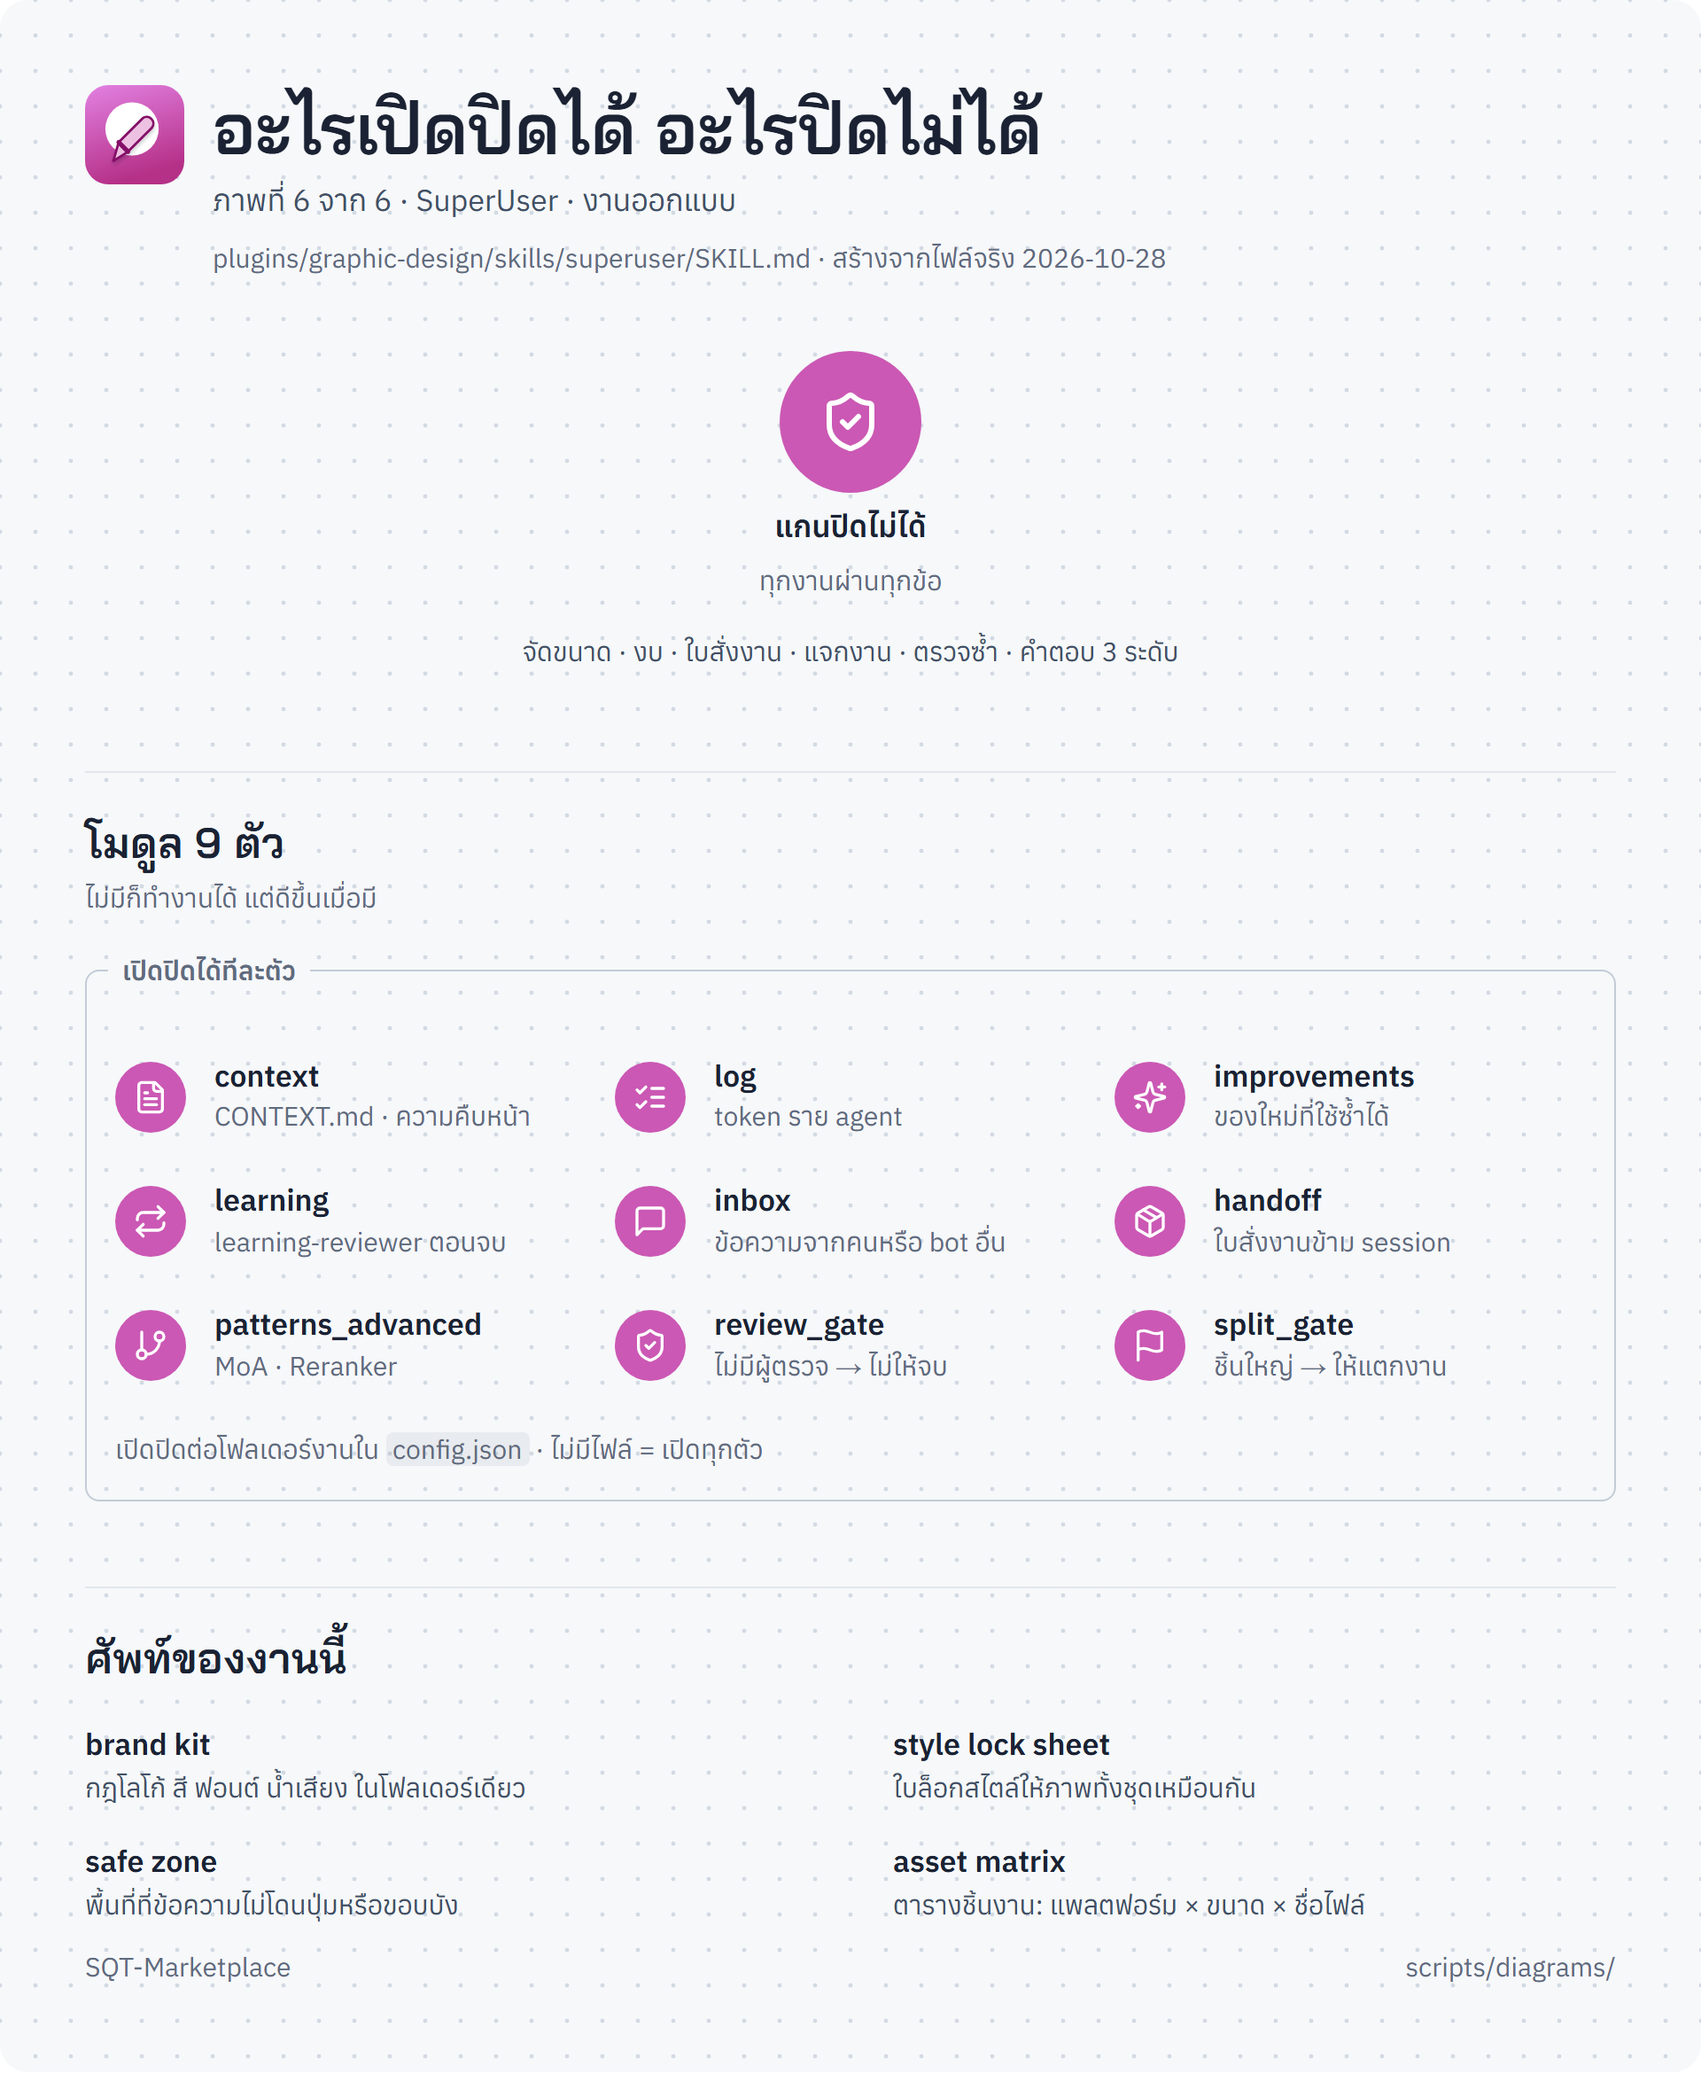
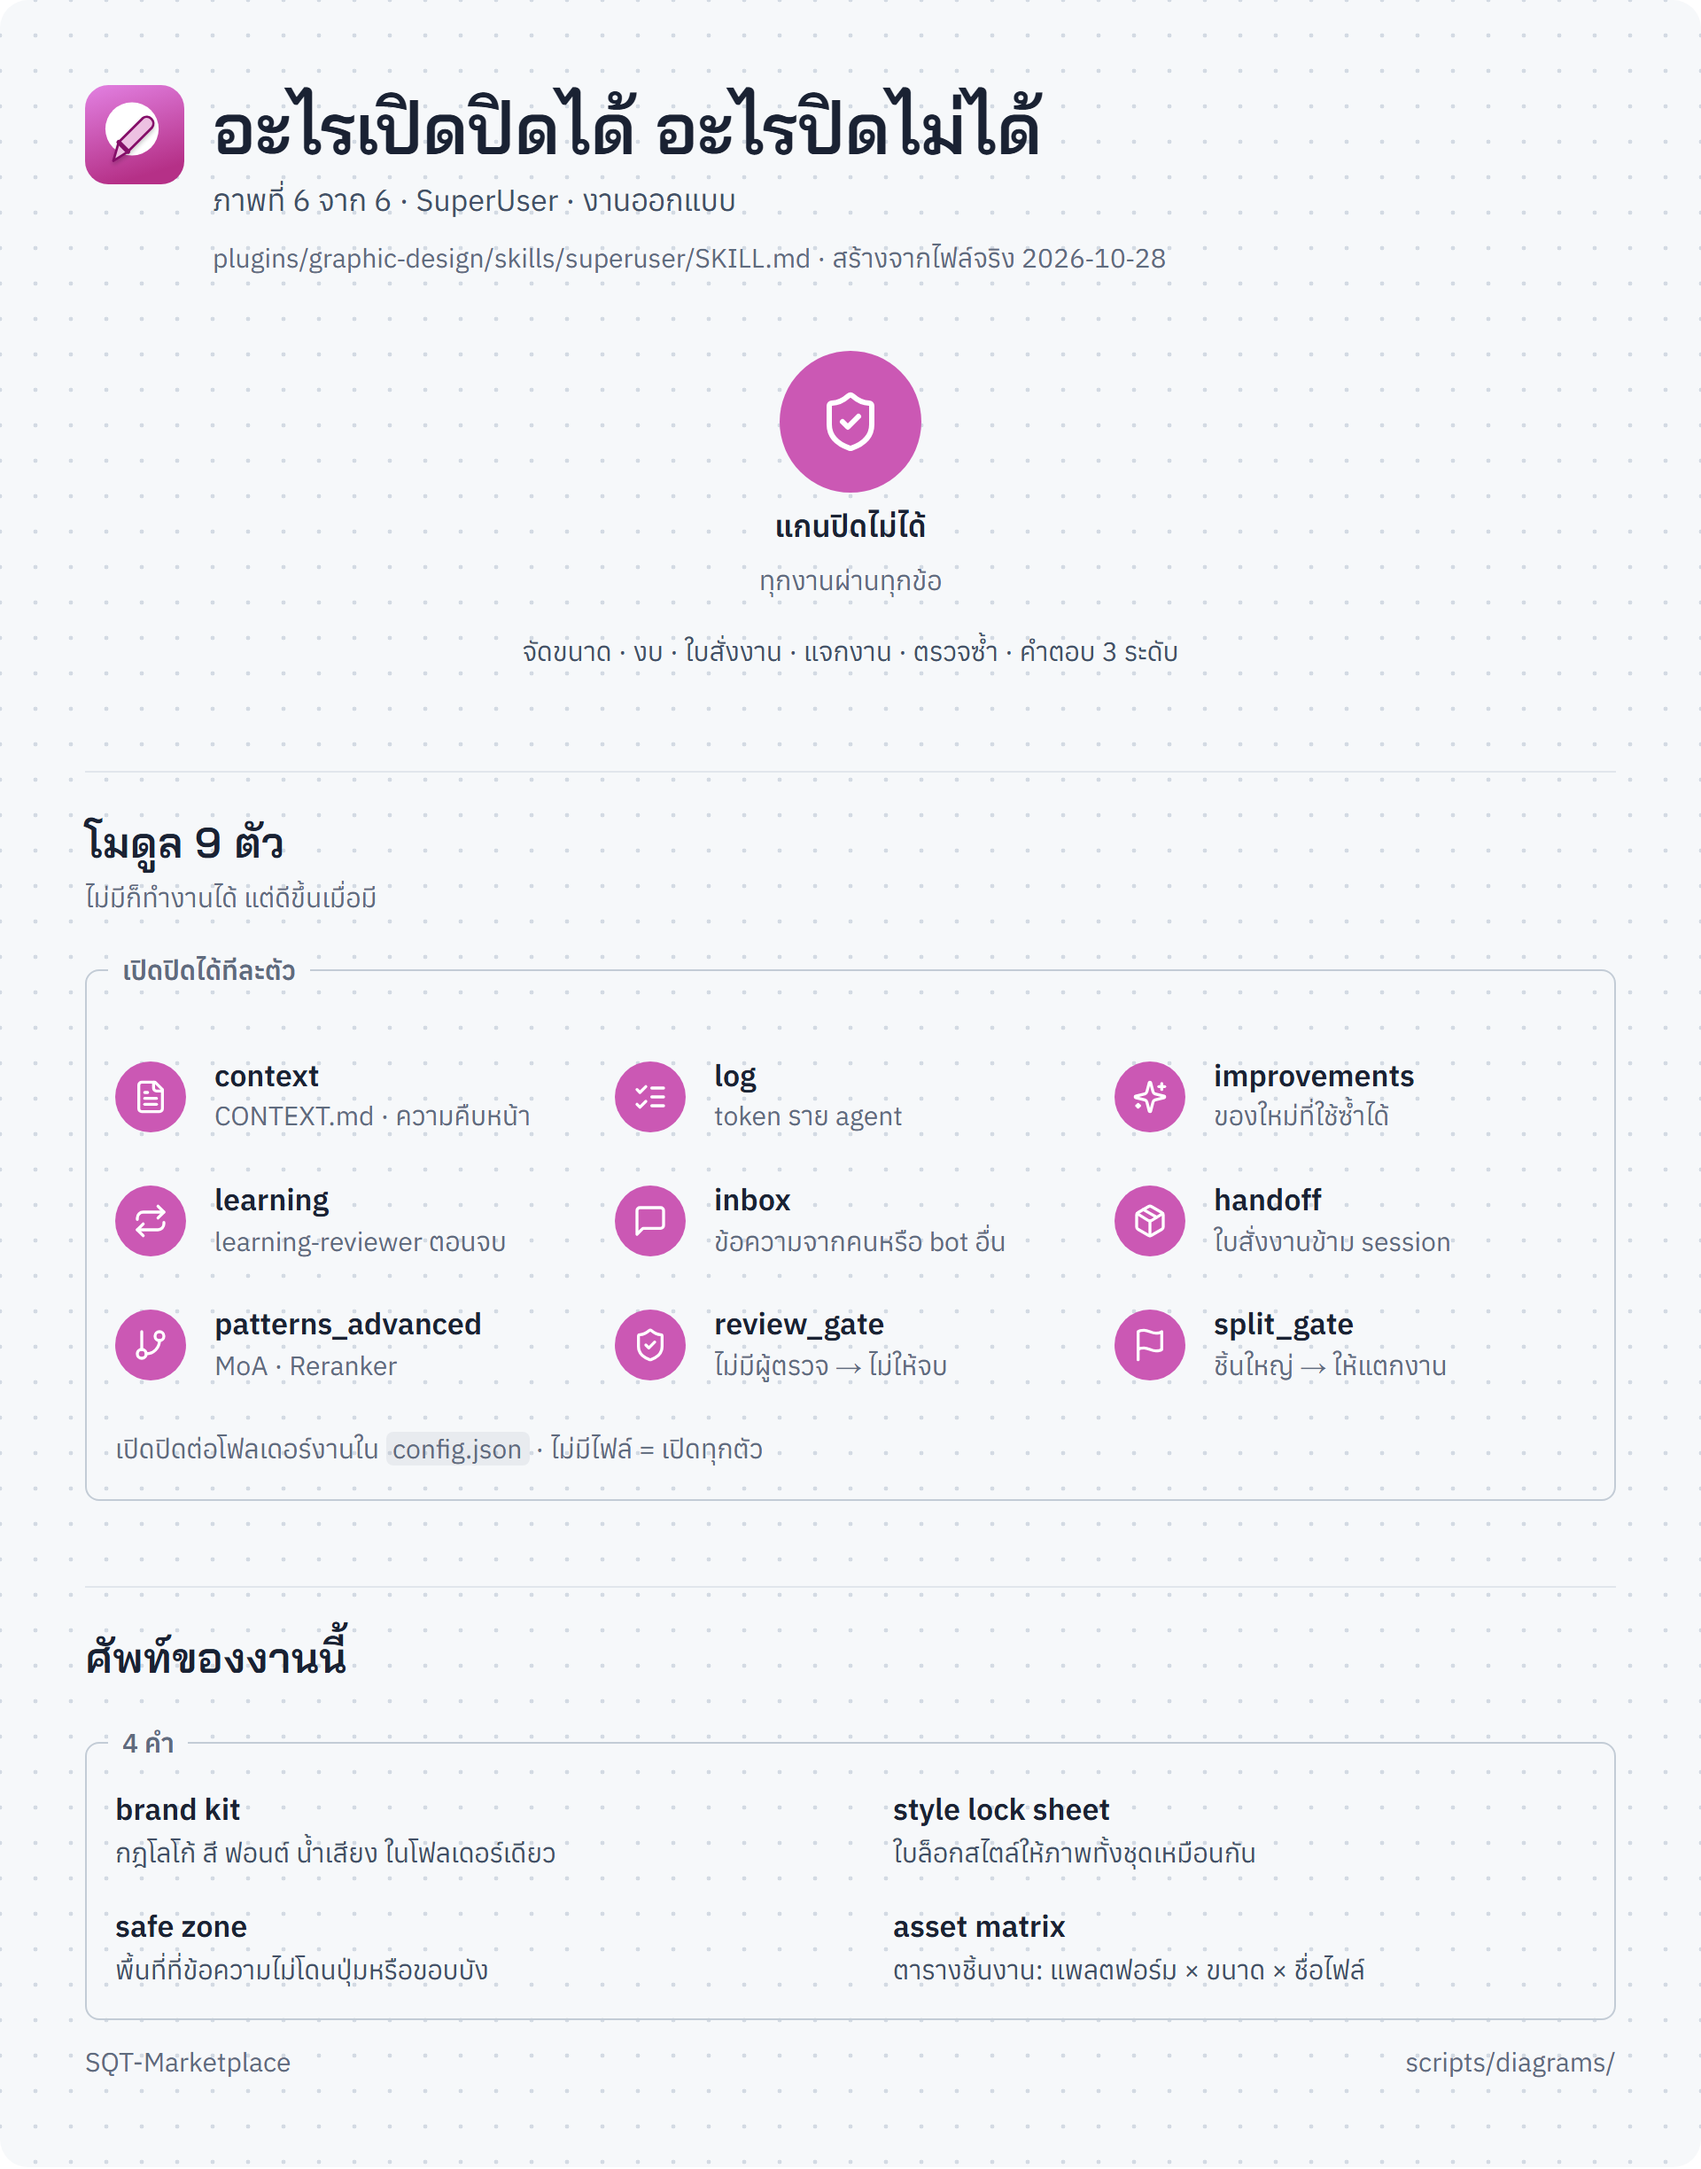
docs(diagrams): กรอบศัพท์ของงาน · การ์ดในกรอบเดียวกันสูงเท่ากัน
- flow 6: ศัพท์ของงานนี้อยู่ในกรอบ N คำ
- การ์ดในกรอบกลุ่มสูงเท่ากัน เส้นที่ออกจากแถวเริ่มระดับเดียวกัน
- แก้ตามผู้ตรวจรอบ 2: ข้อกลาง 1 ข้อ · ข้อต่ำ 2 ข้อ

diff --git a/scripts/diagrams/kit/kit.css b/scripts/diagrams/kit/kit.css
@@ -99,3 +99,5 @@ span.nb{white-space:nowrap}
 .group>.gcap{position:absolute;top:-11px;left:12px;padding:0 8px;background:var(--bg);font-size:15px;line-height:22px;font-weight:600;color:var(--ink3)}
 .band .group{margin-top:28px}
 .group>.fan,.group>.tags,.group>.vlist,.group>.grid,.group>p.note:first-of-type{margin-top:0}
+.group>.fan{align-items:stretch}  /* การ์ดในกรอบเดียวกันสูงเท่ากัน · เส้นที่ออกจากแถวเริ่มระดับเดียวกัน */
+.group>.cols2{margin-top:0}

diff --git a/scripts/diagrams/flow/build_flow.py b/scripts/diagrams/flow/build_flow.py
@@ -286,7 +286,7 @@ def f6(plug, d, r, core):
     gl = '<div class="cols2">' + "".join(f"<p><b>{e(a)}</b>{e(b)}</p>" for a, b in gloss) + "</div>" if gloss else ""
     body = top + band("โมดูล 9 ตัว", "ไม่มีก็ทำงานได้ แต่ดีขึ้นเมื่อมี", kit.group("เปิดปิดได้ทีละตัว", mods), "layers", "pc")
     if gloss:
-        body += band("ศัพท์ของงานนี้", "", gl, "book-open", "pc")
+        body += band("ศัพท์ของงานนี้", "", kit.group(f"{len(gloss)} คำ", gl), "book-open", "pc")
     return body
 
 
